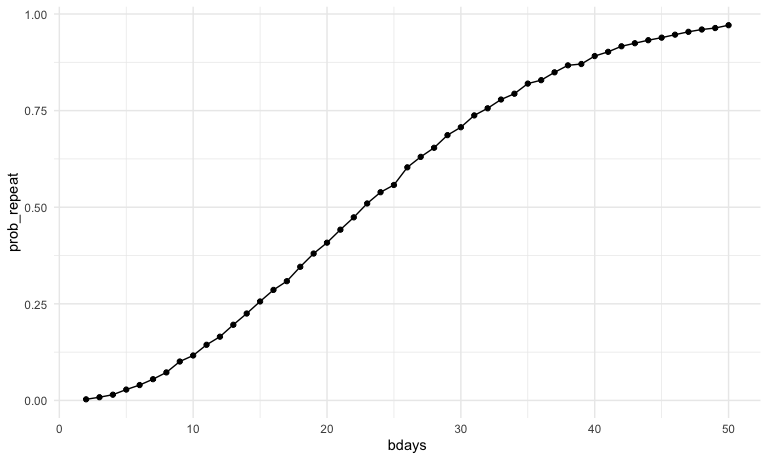
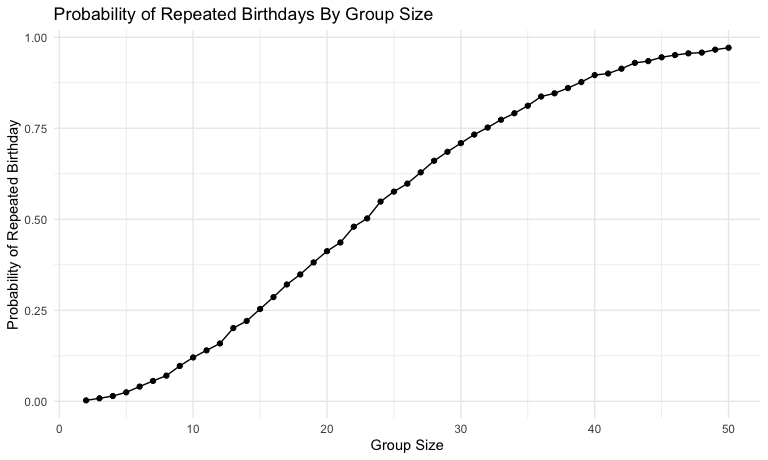
update formatting

diff --git a/p8105_hw5_mas2514.md b/p8105_hw5_mas2514.md
@@ -52,7 +52,9 @@ bday_sim_results |>
   geom_point() +
   geom_line() +
   labs(
-    
+    x = "Group Size",
+    y = "Probability of Repeated Birthday",
+    title = "Probability of Repeated Birthdays By Group Size"
   )
 ```
 
